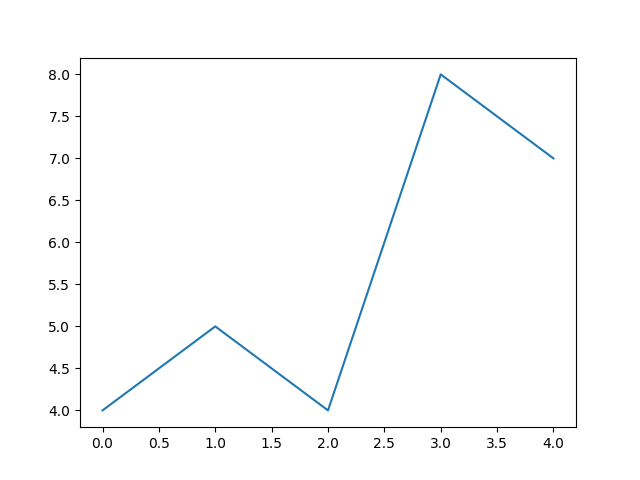
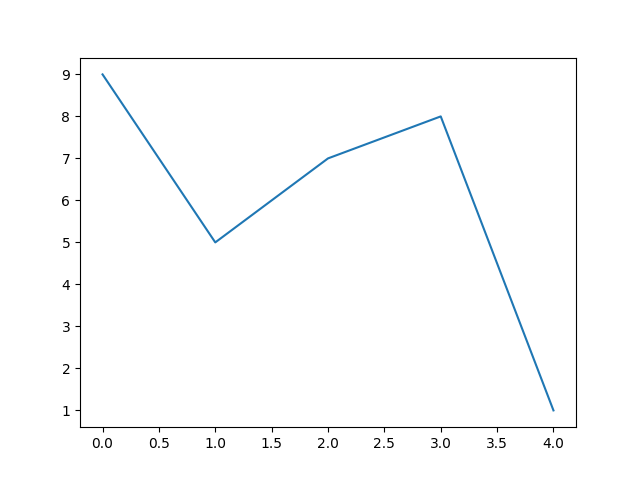
commiting

diff --git a/templates/result.html b/templates/result.html
@@ -80,7 +80,7 @@
 
 
         <div class="container">
-           <center> <h2>Would you like to search again?? Click <a href="home.html">Here</a></h2></center>
+           <center> <h2>Would you like to search again?? Click <a href="home">Here</a></h2></center>
         </div>
 
 <br>
@@ -92,7 +92,7 @@
             <div class="col-sm-4">
 
                 <div class="thumbnail">
-                    <img src="img/gov.png" alt="">
+                    <img src="{{url_for('static',filename = 'img/gov.png')}}" alt="">
 
                 </div>
                 </a>
@@ -101,7 +101,7 @@
             <div class="col-sm-4">
 
                 <div class="thumbnail">
-                    <img src="img/sih.jpg" alt="">
+                    <img src="{{url_for('static',filename = 'img/sih.jpg')}}" alt="">
 
                 </div>
                 </a>
@@ -110,7 +110,7 @@
             <div class="col-sm-4">
 
                 <div class="thumbnail">
-                    <img src="img/bvp.png" alt="">
+                    <img src="{{url_for('static',filename = 'img/bvp.png')}}" alt="">
 
                 </div>
                 </a>

diff --git a/app.py b/app.py
@@ -80,11 +80,10 @@ def home():
 		Ucty = str(request.form.get('city'))
 		Usal = str(request.form.get('Salary'))
 		
-		data = [4,5,4,8,7]
-		plt.plot(data)
-		plt.savefig('static/img/result.png')
 		return redirect(url_for('returna'))
-		
+	data = [9,5,7,8,1]
+	plt.plot(data)
+	plt.savefig('static/img/result.png')
 	return render_template('home.html')
 	
 @app.route("/result",methods = ['GET','POST'])
